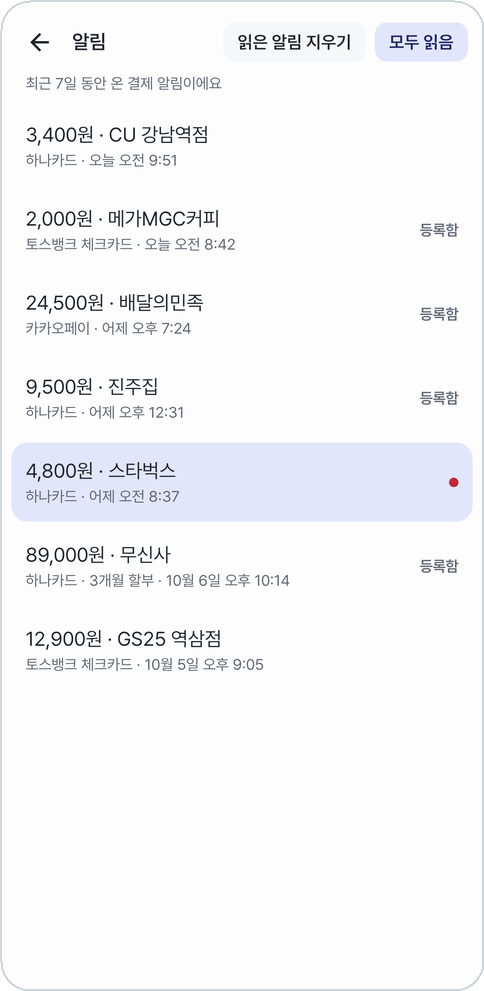
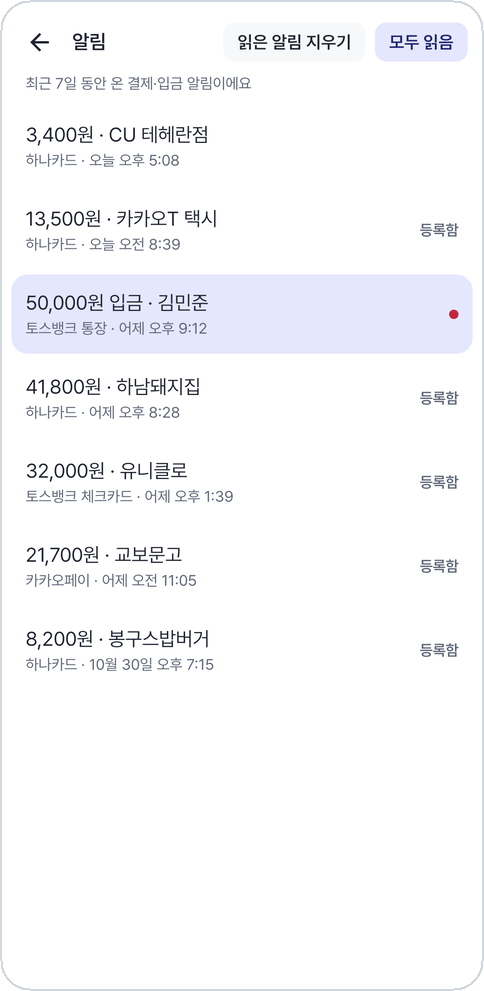
📝 결제 알림 캡처 다시 찍기
알림 목록 안내가 '결제·입금 알림'으로 바뀌었고, 알림 읽기 안내 뒤의
새 버전 줄이 1.8.0 이었음.
- inbox.png: '최근 7일 동안 온 결제·입금 알림', 안 읽은 입금 줄
- permission.png: 뒤의 새 버전 줄이 1.9.1
- inbox 캡션을 '결제·입금 알림'으로 고침
- notification · capture-editor · editor-category · editor-keypad 는
  화면이 같아 그대로 둠

diff --git a/docs/guide/capture.md b/docs/guide/capture.md
@@ -21,7 +21,7 @@
 </td>
 <td align="center" width="33%">
 <img src="../images/inbox.png" width="220" alt="알림 목록"><br>
-<sub><b>홈의 종을 누르면 지난 7일 결제 알림</b></sub>
+<sub><b>홈의 종을 누르면 지난 7일 결제·입금 알림</b></sub>
 </td>
 </tr>
 </table>
